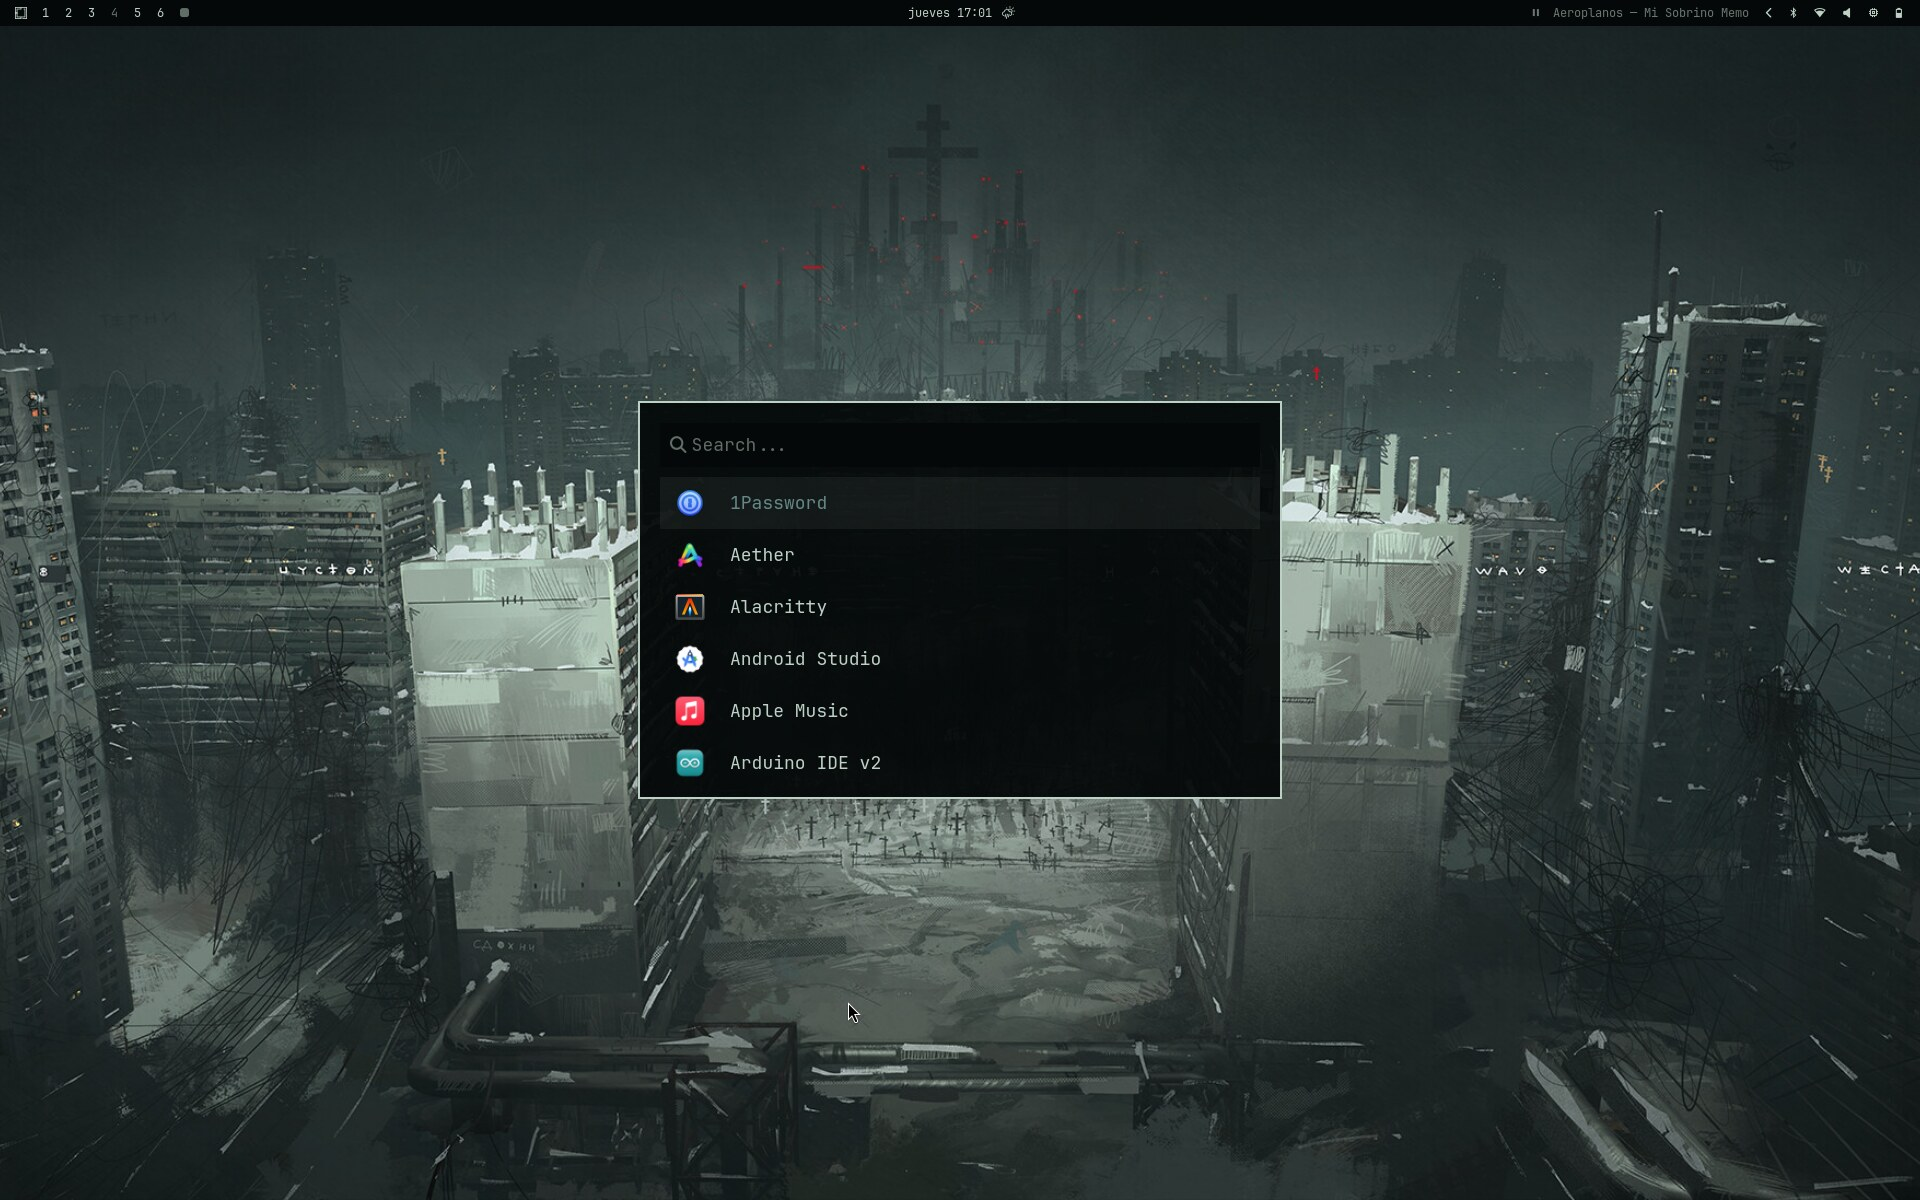
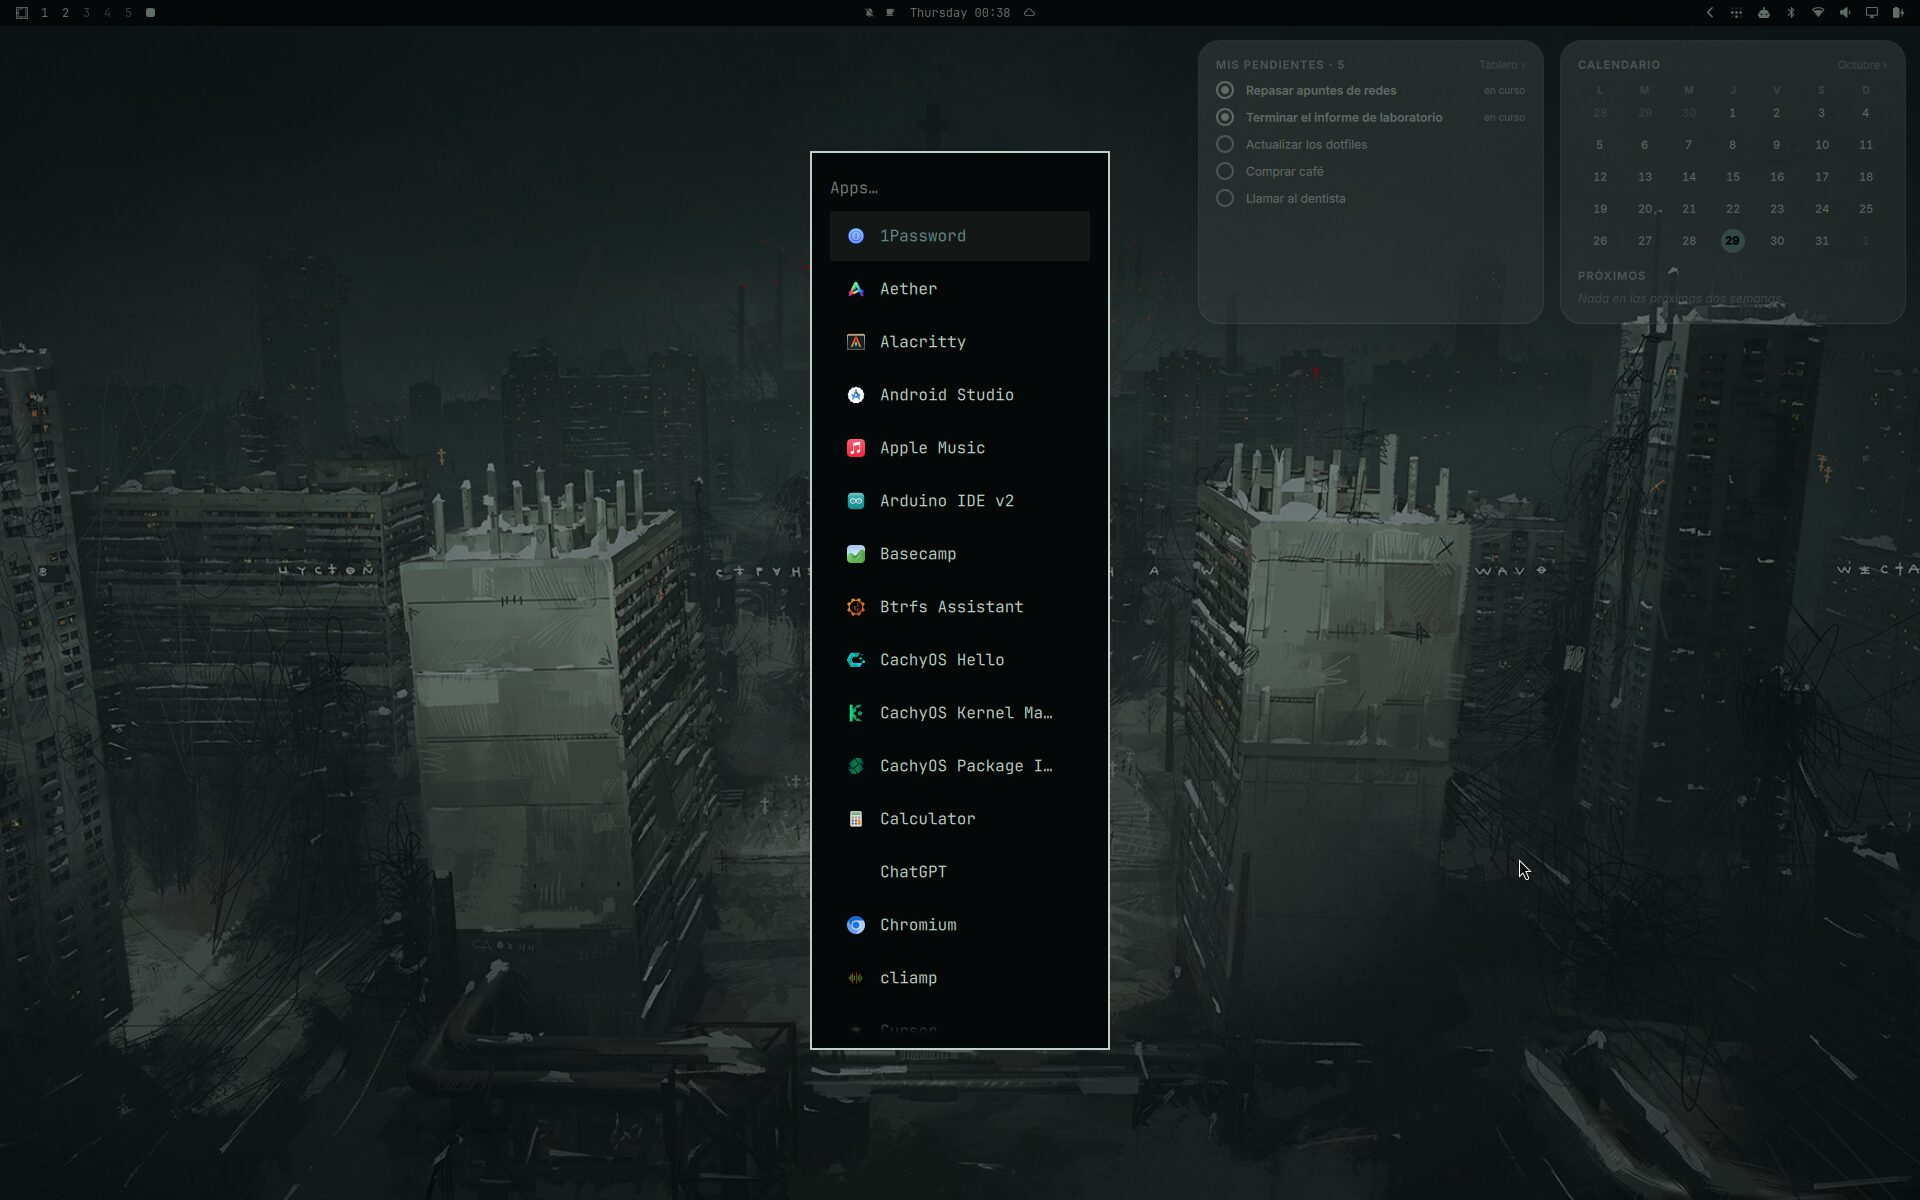
docs: capturas nuevas con la barra de Omarchy quattro y atajos del menú corregidos

diff --git a/README.md b/README.md
@@ -10,9 +10,9 @@ Esta laptop recibió muchas críticas desde que salió. Al pasarla a Linux, casi
 
 ## Cómo se ve
 
-![Escritorio con el fondo y la barra](docs/img/1-escritorio.jpg)
+![Escritorio con la barra de Omarchy y los widgets de pendientes y calendario (tareas de ejemplo)](docs/img/1-escritorio.jpg)
 
-| Lanzador de apps (`SUPER + SPACE`) | Menú de Omarchy (`SUPER + ALT + SPACE`) |
+| Lanzador de apps (`SUPER + ALT + SPACE`) | Menú de Omarchy (`SUPER + SPACE`) |
 | --- | --- |
 | ![Lanzador de apps](docs/img/2-lanzador.jpg) | ![Menú de Omarchy](docs/img/4-menu.jpg) |
 
